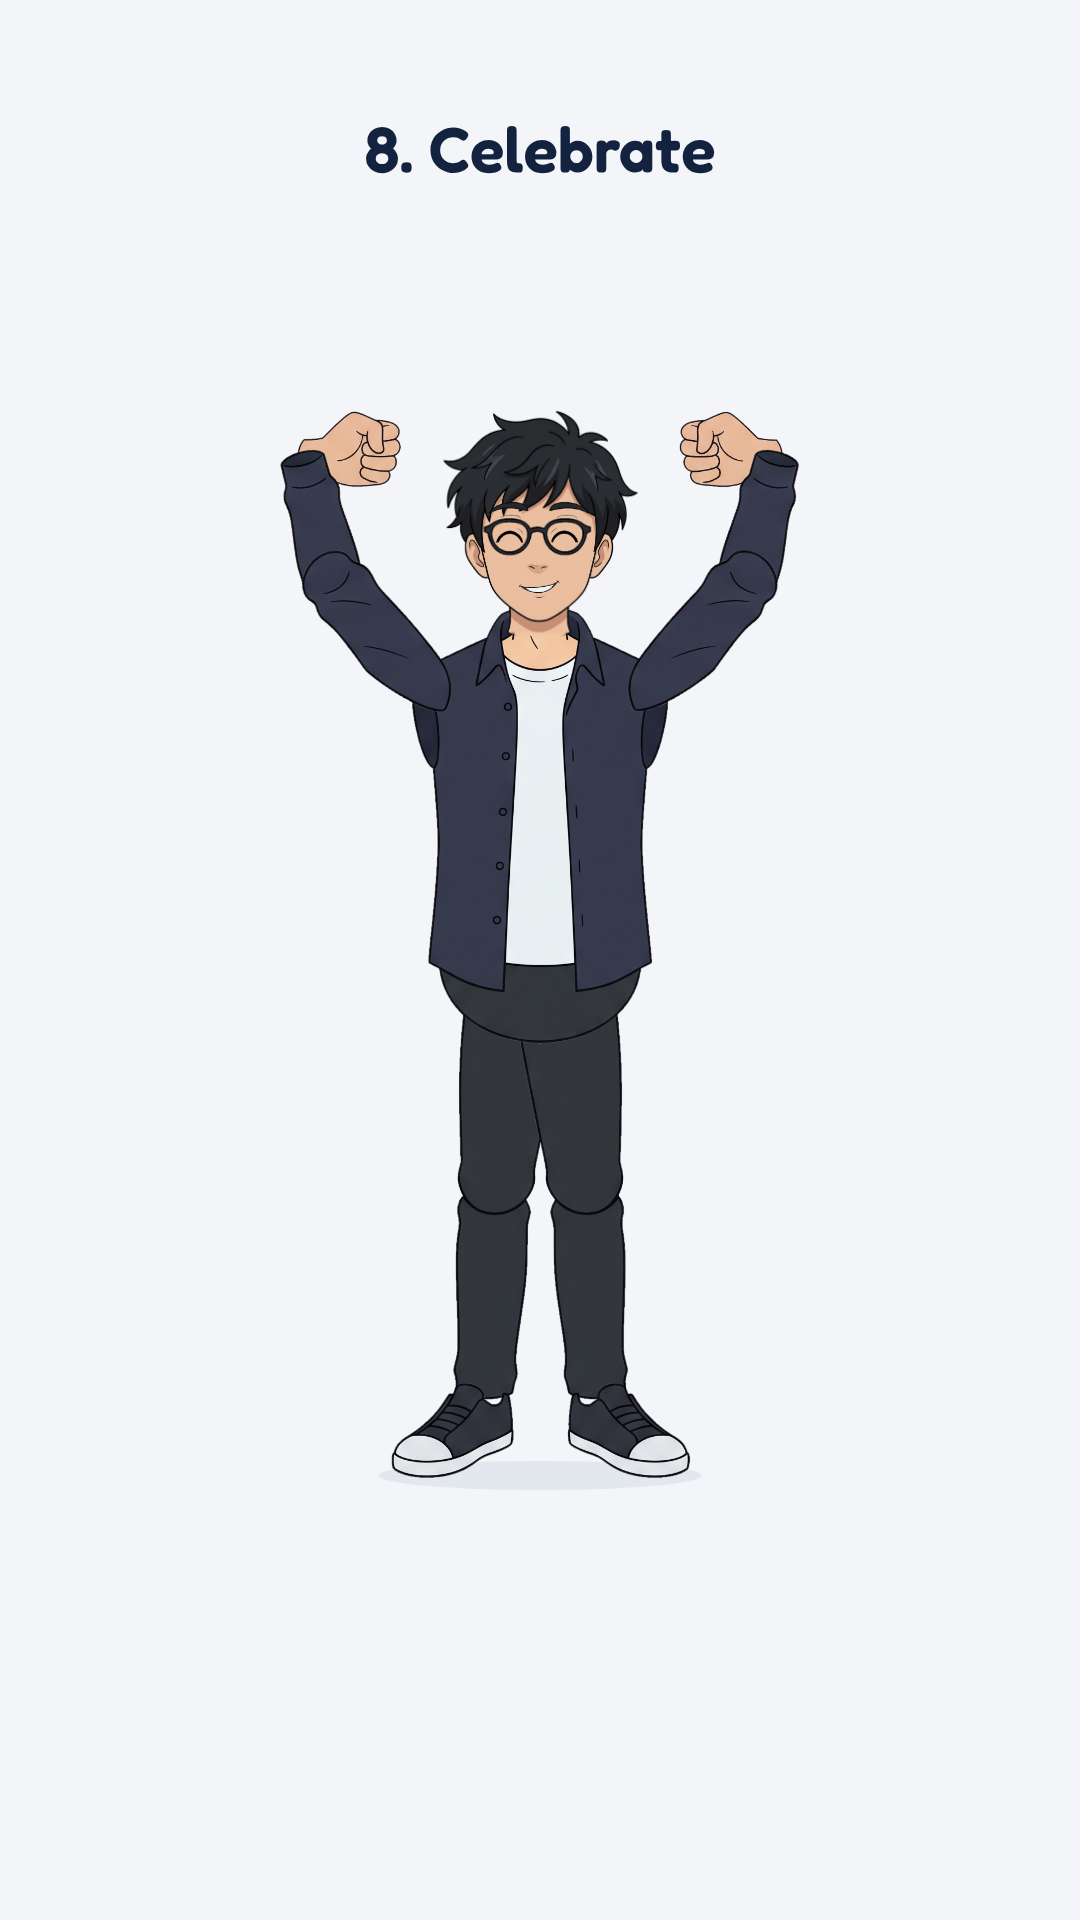
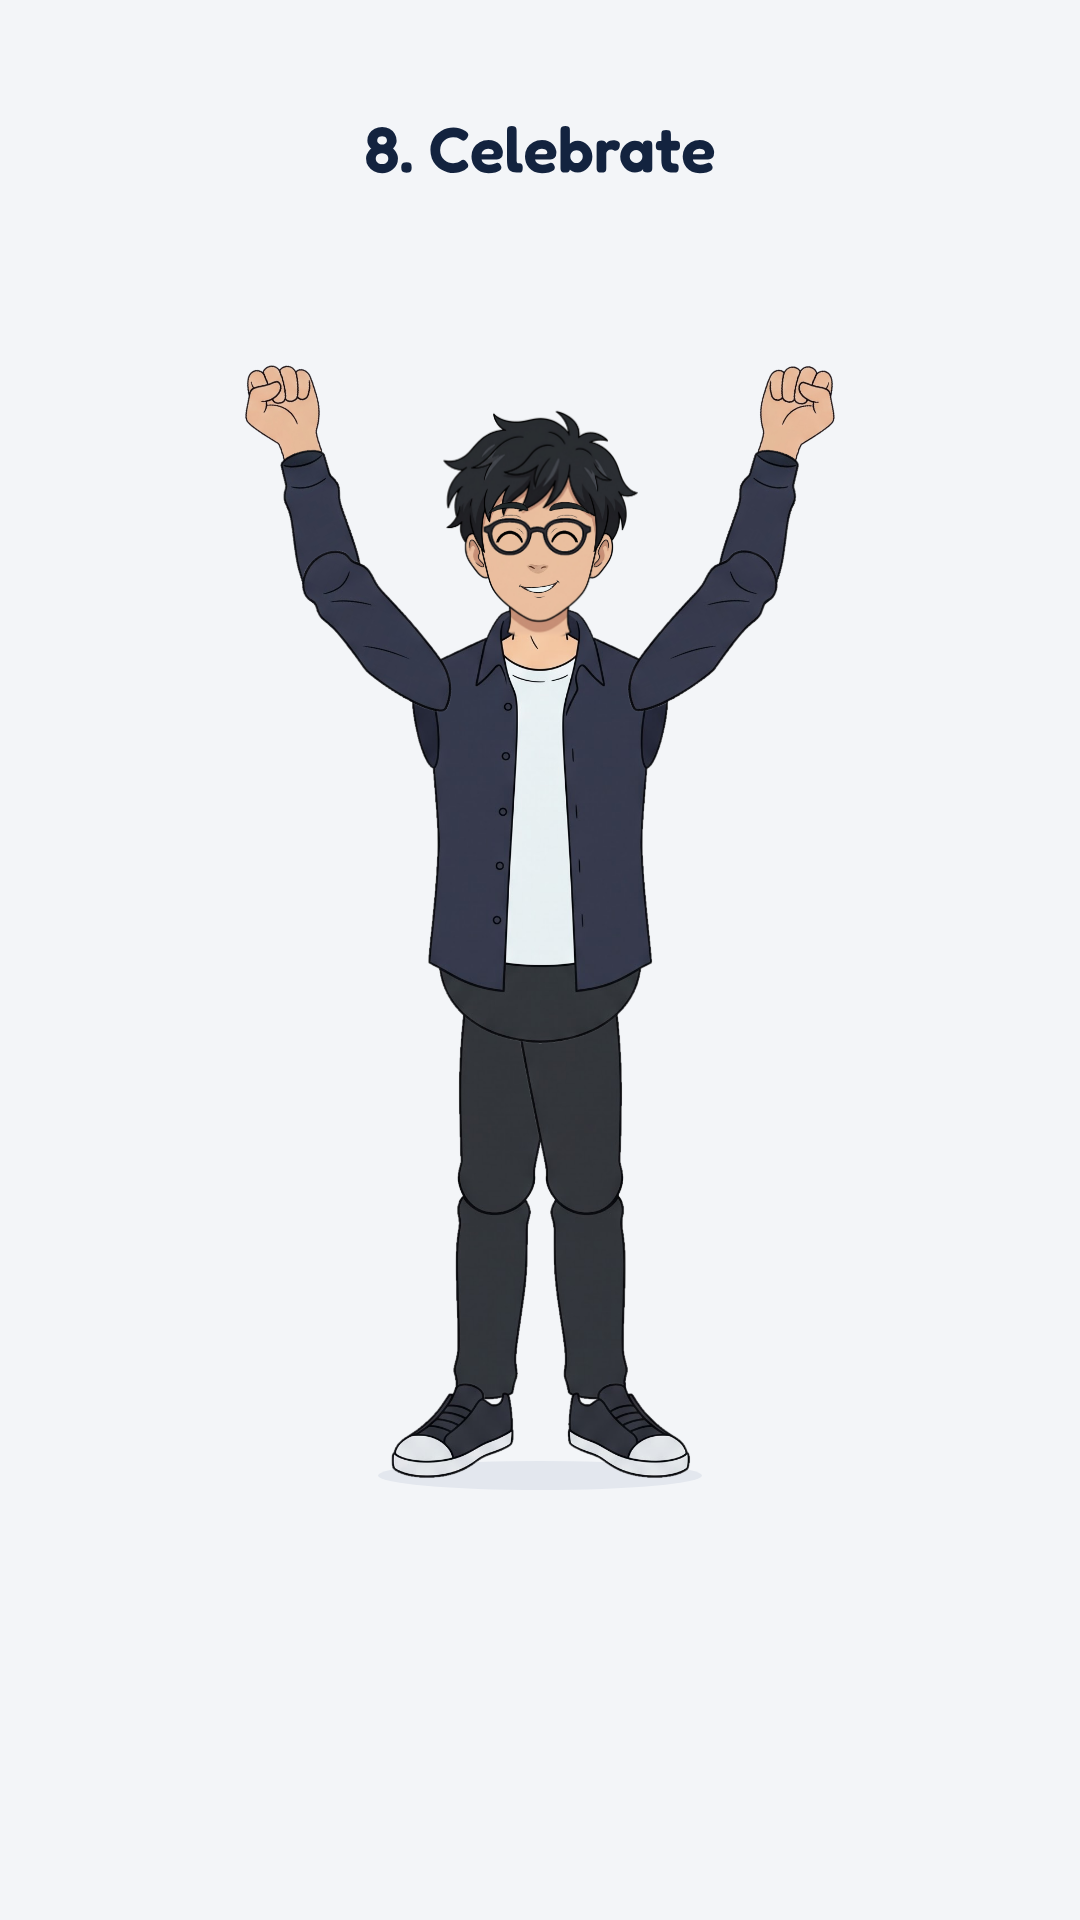
Rig gate 3: toes point away from Ren, fists follow the forearm
Claude-Session: https://claude.ai/code/session_01R2YCjvtPXsaEAME8uMDJyT

Changed region(s): [[0.6111, 0.1875, 0.7944, 0.25], [0.2139, 0.1875, 0.3667, 0.25]]

diff --git a/project/remotion/src/rig/poses.ts b/project/remotion/src/rig/poses.ts
@@ -60,14 +60,14 @@ export const POSES: Record<string, PoseDef> = {
   },
   wince: {
     label: "7. Wince",
-    angles: {"upperarm-r": 14, "forearm-r": 20, "upperarm-l": -14, "forearm-l": -20, head: -5},
-    hands: {r: {part: "hand-fist-r", tilt: 0}, l: {part: "hand-fist-l", tilt: 0}},
+    angles: {"upperarm-r": 10, "forearm-r": 10, "upperarm-l": -10, "forearm-l": -10, head: -5},
+    hands: {r: {part: "hand-fist-r", angle: 0}, l: {part: "hand-fist-l", angle: 0}}, // knuckles down, along the forearm
     face: {eyes: "closed", mouth: "wince", brows: 20},
   },
   celebrate: {
     label: "8. Celebrate",
     angles: {"upperarm-r": 138, "forearm-r": 28, "upperarm-l": -138, "forearm-l": -28},
-    hands: {r: {part: "hand-fist-r", tilt: 0}, l: {part: "hand-fist-l", tilt: 0}},
+    hands: {r: {part: "hand-fist-r", angle: 0}, l: {part: "hand-fist-l", angle: 0}}, // knuckles up, along the forearm
     face: {eyes: "happy", mouth: "smile", brows: -35},
   },
 };
@@ -86,15 +86,17 @@ const SHOE_X = {
 };
 const FLOOR_GAP = 70; // rig units between a shoe and a floor boot
 
-// Where a floor boot stands (rig units from the root): its left edge x and its top y
+// Boots on Ren's right (screen left) are flipped, so every toe points away from him.
+export const flipFor = (side: "r" | "l") => side === "r";
+
+// Where a floor boot's shaft centre stands (rig units from the root), with its outline FLOOR_GAP clear of the shoe
 export const floorBoot = (side: "r" | "l", kind: BootKind) => {
-  const w = 190 * BOOT_RIG;
-  const toe = kind === "cheap" ? 168 * BOOT_RIG : 184 * BOOT_RIG; // both toes point screen right
-  const left = side === "r" ? SHOE_X.r - FLOOR_GAP - toe : SHOE_X.l + FLOOR_GAP;
-  return {left, top: FLOOR - BOOT_GEOM[kind].soleY * BOOT_RIG, w};
+  const g = BOOT_GEOM[kind];
+  const x = side === "r" ? SHOE_X.r - FLOOR_GAP - (g.shaftX - g.x0) * BOOT_RIG : SHOE_X.l + FLOOR_GAP + (g.shaftX - g.x0) * BOOT_RIG;
+  return {x, top: FLOOR - g.soleY * BOOT_RIG};
 };
 
-export type Placed = {pose: RigPose; boots: {kind: BootKind; x: number; y: number; rot: number; k: number; z: number}[]};
+export type Placed = {pose: RigPose; boots: {kind: BootKind; x: number; y: number; rot: number; k: number; z: number; flip: boolean}[]};
 
 // A pose definition placed on the canvas: root at (x, y), `scale` canvas px per rig unit.
 // Optional overrides let a timeline blend angles and swap faces without redefining the pose.
@@ -124,13 +126,13 @@ export const place = (def: PoseDef, x: number, y: number, scale: number, extra?:
       const g = apply(sol.images[hand], PARTS[hand].grip!);
       const hm = sol.images[hand];
       const tilt = (Math.atan2(hm[1], hm[0]) * 180) / Math.PI; // the hand image's world rotation
-      boots.push({kind, x: g[0], y: g[1], rot: tilt, k: scale * BOOT_RIG, z: (pose.z?.[hand] ?? 51) + 0.2});
+      boots.push({kind, x: g[0], y: g[1], rot: tilt, k: scale * BOOT_RIG, z: (pose.z?.[hand] ?? 51) + 0.2, flip: flipFor(side)});
     }
     const fk = def.floor?.[side];
     if (fk) {
       const fb = floorBoot(side, fk);
       const g = BOOT_GEOM[fk];
-      boots.push({kind: fk, x: x + (fb.left + g.shaftX * BOOT_RIG) * scale, y: y + (fb.top + g.gripY * BOOT_RIG) * scale, rot: 0, k: scale * BOOT_RIG, z: 49});
+      boots.push({kind: fk, x: x + fb.x * scale, y: y + (fb.top + g.gripY * BOOT_RIG) * scale, rot: 0, k: scale * BOOT_RIG, z: 49, flip: flipFor(side)});
     }
   }
   return {pose, boots};

diff --git a/project/remotion/src/rig/Boot.tsx b/project/remotion/src/rig/Boot.tsx
@@ -7,18 +7,19 @@ export type BootKind = "cheap" | "prem";
 export const BOOT_COLORS = {ink: "#13233F", gold: "#F5B82E", goldEdge: "#C98A0B", red: "#E23D3D", line: "#E3E7EE", muted: "#7A8496", outline: "#1d1f26"};
 const C = BOOT_COLORS;
 
-// Shaft centre line (x) and the height a hand grips it at (y); sole bottom (y). Boot units.
-export const BOOT_GEOM: Record<BootKind, {shaftX: number; gripY: number; soleY: number}> = {
-  cheap: {shaftX: 78, gripY: 78, soleY: 182},
-  prem: {shaftX: 65, gripY: 78, soleY: 197},
+// Shaft centre line (x), the height a hand grips it at (y), sole bottom (y) and the boot's left and right
+// edges (x). Boot units, toe pointing right; a flipped boot is mirrored about its shaft centre line.
+export const BOOT_GEOM: Record<BootKind, {shaftX: number; gripY: number; soleY: number; x0: number; x1: number}> = {
+  cheap: {shaftX: 78, gripY: 78, soleY: 182, x0: 36, x1: 168},
+  prem: {shaftX: 65, gripY: 78, soleY: 197, x0: 20, x1: 184},
 };
 export const BOOT_RIG = 1.7; // rig units per boot unit
 
-export const Boot: React.FC<{kind: BootKind; tag?: boolean}> = ({kind, tag = true}) => {
+export const Boot: React.FC<{kind: BootKind; tag?: boolean; flip?: boolean}> = ({kind, tag = true, flip = false}) => {
   const prem = kind === "prem";
   return (
     <div style={{position: "relative", width: 190, height: 200}}>
-      <svg width="190" height="200" viewBox="0 0 190 200" style={{overflow: "visible", position: "absolute", left: 0, top: 0}}>
+      <svg width="190" height="200" viewBox="0 0 190 200" style={{overflow: "visible", position: "absolute", left: 0, top: 0, transformOrigin: `${BOOT_GEOM[kind].shaftX}px 0`, transform: flip ? "scaleX(-1)" : undefined}}>
         {prem ? (
           <>
             <path d="M48 8 H112 V118 Q150 120 172 142 Q182 154 178 166 H30 V8 Z" transform="translate(-6 0)" fill={C.ink} stroke={C.outline} strokeWidth="7" strokeLinejoin="round" />

diff --git a/project/remotion/src/rig/PoseStill.tsx b/project/remotion/src/rig/PoseStill.tsx
@@ -20,7 +20,7 @@ export const PlacedRen: React.FC<{placed: Placed; shadow?: boolean}> = ({placed,
             at: [b.x, b.y] as [number, number], z: b.z,
             node: (
               <div style={{position: "absolute", left: 0, top: 0, transformOrigin: "0 0", transform: `rotate(${b.rot}deg) scale(${b.k}) translate(${-BOOT_GEOM[b.kind].shaftX}px, ${-BOOT_GEOM[b.kind].gripY}px)`}}>
-                <Boot kind={b.kind} />
+                <Boot kind={b.kind} flip={b.flip} />
               </div>
             ),
           })),

diff --git a/project/rig/LAB.md b/project/rig/LAB.md
@@ -19,7 +19,8 @@ Nothing from here is used in episodes.
   tilt), a face, and boots held or on the floor. Holding uses new `hand-holdout-*` parts (the other side's
   hold art, so the grip opens outward) with a grip point and a finger clip in `rig.json`; the renderer draws
   the fingers again in front of the boot. Boots moved to `remotion/src/rig/Boot.tsx`, tags above the shaft.
-  Stills: `rig/ren/checks/poses/`. Waiting for approval.
+  Boots on his right are mirrored so every toe points away from him. Wince and celebrate fists follow
+  the forearm (knuckles down, knuckles up). Stills: `rig/ren/checks/poses/`. Waiting for approval.
 
 ## What exists
 - `rig/build_parts.py`: cuts the owner's sheets (`rig/ren/source/`) into transparent parts.
